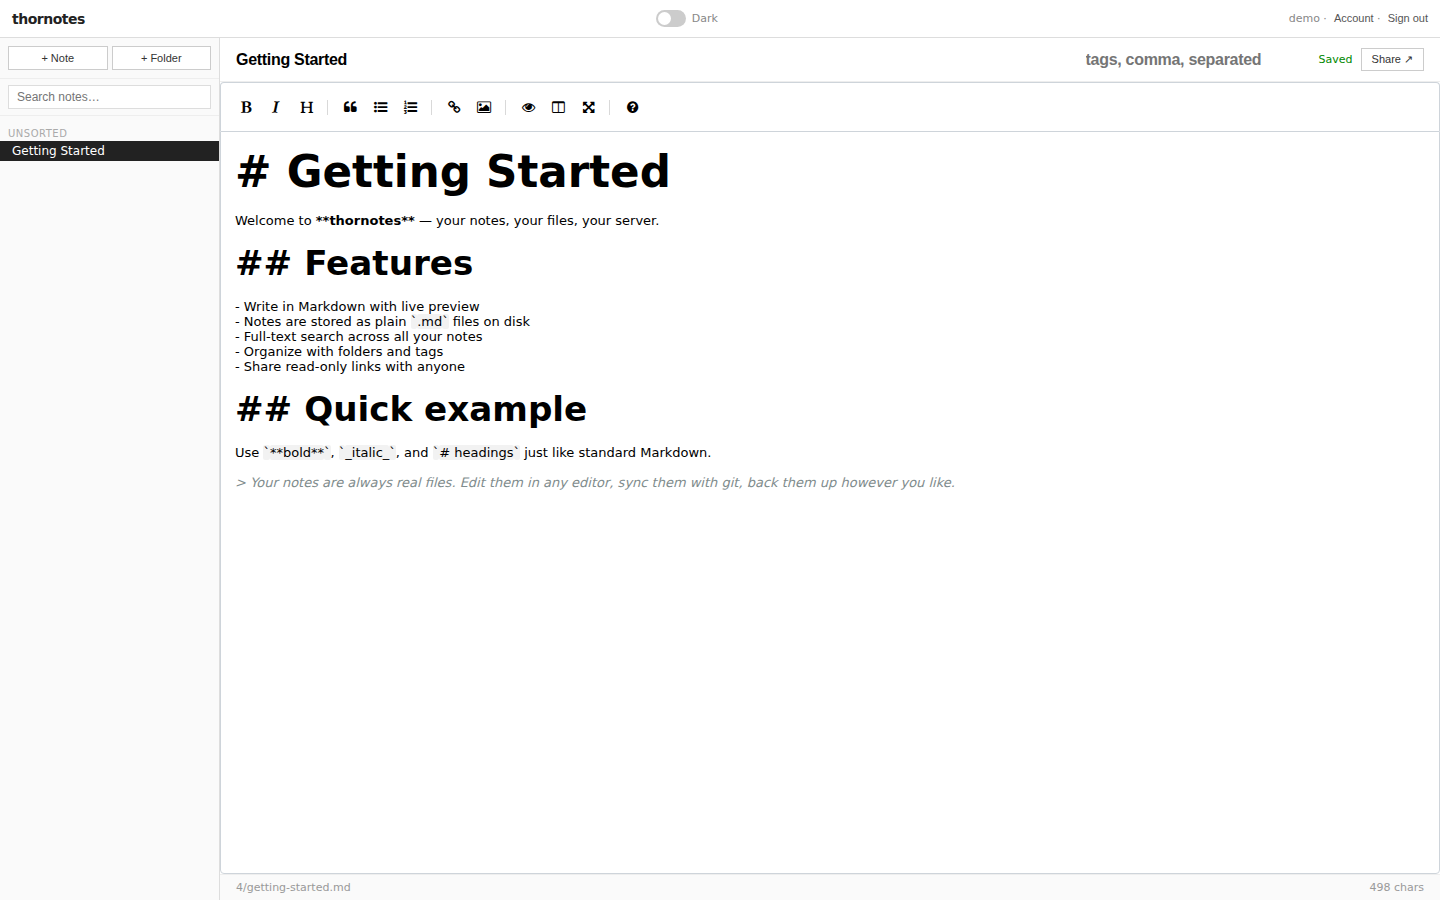
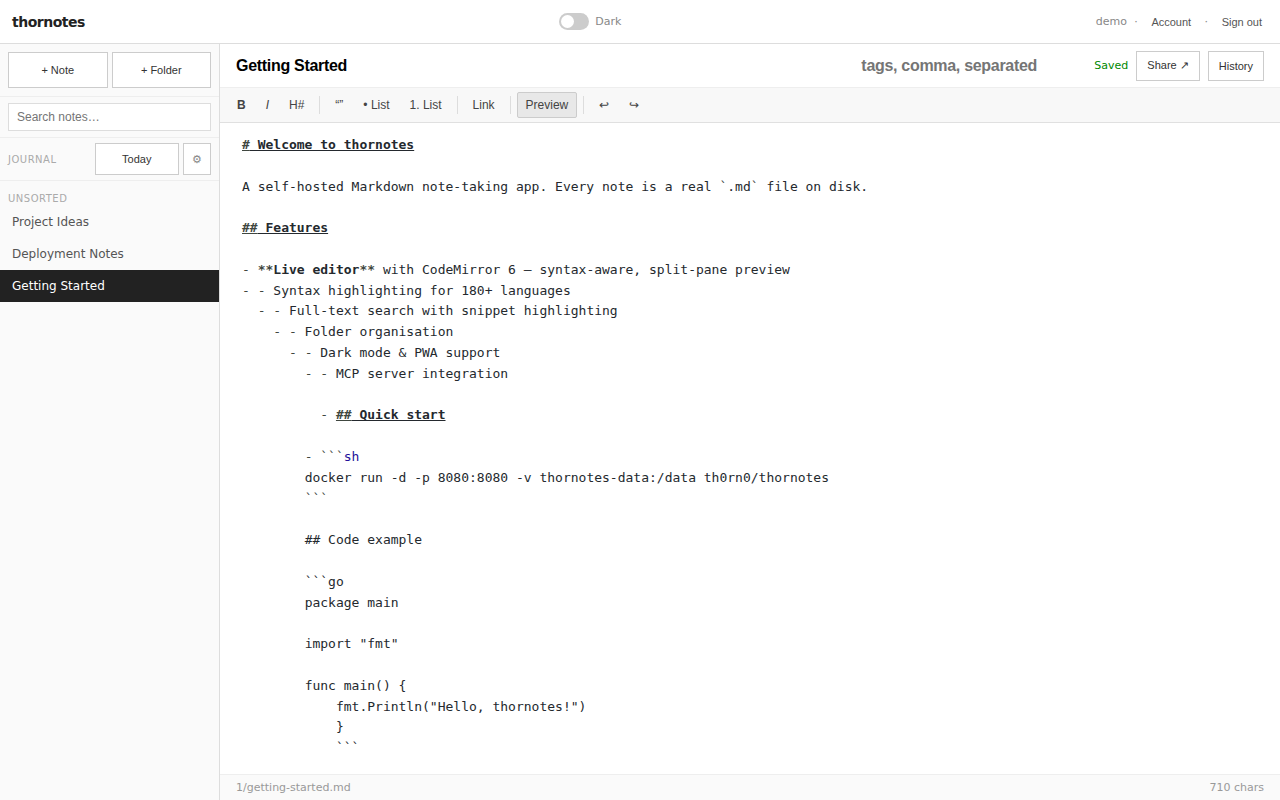
fix: AuthRateLimiter goroutine leak → handler tests timeout (v0.19.2.0)
cleanupLoop used for range ticker.C which blocks forever — stopping a
ticker does not close its channel. With 70+ MCP tests each creating a
new AuthRateLimiter, thousands of leaked goroutines accumulated and
degraded the scheduler enough to hit the 10-minute CI test timeout.

- Add Stop() / stopCh to AuthRateLimiter; rewrite cleanupLoop with select
- Wire t.Cleanup(rateLimiter.Stop) into all test helpers
- Wire rateLimiter.Stop() into main graceful shutdown
- Bump version and changelog (v0.19.2.0)
- Update README: EasyMDE → CodeMirror 6, refresh screenshots
- Bump service worker cache to thornotes-v0.19.2.0

diff --git a/web/static/sw.js b/web/static/sw.js
@@ -1,7 +1,7 @@
 /* thornotes — service worker */
 'use strict';
 
-const CACHE = 'thornotes-v0.19.0.0';
+const CACHE = 'thornotes-v0.19.2.0';
 
 const STATIC_ASSETS = [
   '/',

diff --git a/internal/security/ratelimit_test.go b/internal/security/ratelimit_test.go
@@ -12,6 +12,7 @@ import (
 
 func TestRateLimit_AllowsUnderLimit(t *testing.T) {
 	rl := NewAuthRateLimiter(nil)
+	t.Cleanup(rl.Stop)
 	handler := rl.Middleware(http.HandlerFunc(func(w http.ResponseWriter, r *http.Request) {
 		w.WriteHeader(http.StatusOK)
 	}))
@@ -27,6 +28,7 @@ func TestRateLimit_AllowsUnderLimit(t *testing.T) {
 
 func TestRateLimit_BlocksAfterLimit(t *testing.T) {
 	rl := NewAuthRateLimiter(nil)
+	t.Cleanup(rl.Stop)
 	handler := rl.Middleware(http.HandlerFunc(func(w http.ResponseWriter, r *http.Request) {
 		w.WriteHeader(http.StatusOK)
 	}))
@@ -50,6 +52,7 @@ func TestRateLimit_BlocksAfterLimit(t *testing.T) {
 
 func TestRateLimit_DifferentIPsAreIndependent(t *testing.T) {
 	rl := NewAuthRateLimiter(nil)
+	t.Cleanup(rl.Stop)
 	handler := rl.Middleware(http.HandlerFunc(func(w http.ResponseWriter, r *http.Request) {
 		w.WriteHeader(http.StatusOK)
 	}))
@@ -73,6 +76,7 @@ func TestRateLimit_DifferentIPsAreIndependent(t *testing.T) {
 func TestRateLimit_TrustedProxy_ExtractsRealIP(t *testing.T) {
 	_, proxyNet, _ := net.ParseCIDR("10.0.0.0/8")
 	rl := NewAuthRateLimiter(proxyNet)
+	t.Cleanup(rl.Stop)
 	handler := rl.Middleware(http.HandlerFunc(func(w http.ResponseWriter, r *http.Request) {
 		w.WriteHeader(http.StatusOK)
 	}))
@@ -105,6 +109,7 @@ func TestRateLimit_TrustedProxy_ExtractsRealIP(t *testing.T) {
 
 func TestRateLimit_UntrustedProxy_IgnoresXFF(t *testing.T) {
 	rl := NewAuthRateLimiter(nil) // no trusted proxy
+	t.Cleanup(rl.Stop)
 	handler := rl.Middleware(http.HandlerFunc(func(w http.ResponseWriter, r *http.Request) {
 		w.WriteHeader(http.StatusOK)
 	}))
@@ -129,6 +134,7 @@ func TestRateLimit_UntrustedProxy_IgnoresXFF(t *testing.T) {
 
 func TestRateLimit_EvictStale(t *testing.T) {
 	rl := NewAuthRateLimiter(nil)
+	t.Cleanup(rl.Stop)
 
 	// Add an entry via getLimiter.
 	rl.getLimiter("10.1.1.1")
@@ -150,6 +156,7 @@ func TestRateLimit_EvictStale(t *testing.T) {
 
 func TestRateLimit_EvictStale_KeepsRecent(t *testing.T) {
 	rl := NewAuthRateLimiter(nil)
+	t.Cleanup(rl.Stop)
 
 	// Add a fresh entry via getLimiter.
 	rl.getLimiter("10.2.2.2")
@@ -167,6 +174,7 @@ func TestRateLimit_EvictStale_KeepsRecent(t *testing.T) {
 func TestRateLimit_ExtractIP_NoXFF(t *testing.T) {
 	_, proxyNet, _ := net.ParseCIDR("10.0.0.0/8")
 	rl := NewAuthRateLimiter(proxyNet)
+	t.Cleanup(rl.Stop)
 
 	// Trusted proxy configured, but no XFF header — should use RemoteAddr.
 	req := httptest.NewRequest(http.MethodPost, "/", nil)
@@ -180,6 +188,7 @@ func TestRateLimit_ExtractIP_NoXFF(t *testing.T) {
 func TestRateLimit_ExtractIP_AllTrustedChain(t *testing.T) {
 	_, proxyNet, _ := net.ParseCIDR("10.0.0.0/8")
 	rl := NewAuthRateLimiter(proxyNet)
+	t.Cleanup(rl.Stop)
 
 	// XFF chain is all trusted IPs — should fall back to RemoteAddr.
 	req := httptest.NewRequest(http.MethodPost, "/", nil)
@@ -193,6 +202,7 @@ func TestRateLimit_ExtractIP_AllTrustedChain(t *testing.T) {
 func TestRateLimit_ExtractIP_UnparsableRemote(t *testing.T) {
 	_, proxyNet, _ := net.ParseCIDR("10.0.0.0/8")
 	rl := NewAuthRateLimiter(proxyNet)
+	t.Cleanup(rl.Stop)
 
 	// RemoteAddr with no host part → SplitHostPort returns "", so net.ParseIP("") == nil.
 	// Should fall back to the empty string (remoteIP).
@@ -207,6 +217,7 @@ func TestRateLimit_ExtractIP_UnparsableRemote(t *testing.T) {
 func TestRateLimit_ExtractIP_InvalidXFFEntry(t *testing.T) {
 	_, proxyNet, _ := net.ParseCIDR("10.0.0.0/8")
 	rl := NewAuthRateLimiter(proxyNet)
+	t.Cleanup(rl.Stop)
 
 	// XFF header contains an invalid (non-parseable) IP before the real one.
 	// The loop should skip it and continue.
@@ -222,6 +233,7 @@ func TestRateLimit_ExtractIP_InvalidXFFEntry(t *testing.T) {
 func TestRateLimit_ExtractIP_RemoteNotInTrustedRange(t *testing.T) {
 	_, proxyNet, _ := net.ParseCIDR("10.0.0.0/8")
 	rl := NewAuthRateLimiter(proxyNet)
+	t.Cleanup(rl.Stop)
 
 	// RemoteAddr is NOT in the trusted proxy range — XFF must be ignored.
 	req := httptest.NewRequest(http.MethodPost, "/", nil)

diff --git a/internal/security/ratelimit.go b/internal/security/ratelimit.go
@@ -27,15 +27,22 @@ type AuthRateLimiter struct {
 	mu           sync.Mutex
 	limiters     map[string]*ipLimiter
 	trustedProxy *net.IPNet
+	stopCh       chan struct{}
 }
 
 func NewAuthRateLimiter(trustedProxy *net.IPNet) *AuthRateLimiter {
 	rl := &AuthRateLimiter{
 		limiters:     make(map[string]*ipLimiter),
 		trustedProxy: trustedProxy,
+		stopCh:       make(chan struct{}),
 	}
 	go rl.cleanupLoop()
 	return rl
+}
+
+// Stop terminates the background cleanup goroutine.
+func (rl *AuthRateLimiter) Stop() {
+	close(rl.stopCh)
 }
 
 // Middleware wraps an HTTP handler with per-IP rate limiting.
@@ -137,7 +144,12 @@ func (rl *AuthRateLimiter) evictStale(cutoff time.Time) {
 func (rl *AuthRateLimiter) cleanupLoop() {
 	ticker := time.NewTicker(rateLimitCleanup)
 	defer ticker.Stop()
-	for range ticker.C {
-		rl.evictStale(time.Now().Add(-rateLimitCleanup))
+	for {
+		select {
+		case <-rl.stopCh:
+			return
+		case <-ticker.C:
+			rl.evictStale(time.Now().Add(-rateLimitCleanup))
+		}
 	}
 }

diff --git a/internal/handler/integration_test.go b/internal/handler/integration_test.go
@@ -55,6 +55,7 @@ func newTestClient(t *testing.T) *testClient {
 	authSvc := auth.NewService(userRepo, sessionRepo, true)
 	notesSvc := notes.NewService(noteRepo, folderRepo, searchRepo, sqlite.NewJournalRepo(pool.ReadDB, pool.WriteDB), fs)
 	rateLimiter := security.NewAuthRateLimiter(nil)
+	t.Cleanup(rateLimiter.Stop)
 
 	tmpl, err := template.ParseFS(thornotes.TemplatesFS, "web/templates/*.html")
 	require.NoError(t, err)
@@ -1450,6 +1451,7 @@ func newTestClientGit(t *testing.T) *testClient {
 	authSvc := auth.NewService(userRepo, sessionRepo, true)
 	notesSvc := notes.NewService(noteRepo, folderRepo, searchRepo, sqlite.NewJournalRepo(pool.ReadDB, pool.WriteDB), fs)
 	rateLimiter := security.NewAuthRateLimiter(nil)
+	t.Cleanup(rateLimiter.Stop)
 
 	tmpl, err := template.ParseFS(thornotes.TemplatesFS, "web/templates/*.html")
 	require.NoError(t, err)

diff --git a/internal/router/router_test.go b/internal/router/router_test.go
@@ -43,6 +43,7 @@ func buildHandler(t *testing.T) http.Handler {
 	authSvc := auth.NewService(userRepo, sessionRepo, true)
 	notesSvc := notes.NewService(noteRepo, folderRepo, searchRepo, sqlite.NewJournalRepo(pool.ReadDB, pool.WriteDB), fs)
 	rateLimiter := security.NewAuthRateLimiter(nil)
+	t.Cleanup(rateLimiter.Stop)
 
 	tmpl, err := template.ParseFS(thornotes.TemplatesFS, "web/templates/*.html")
 	require.NoError(t, err)

diff --git a/cmd/thornotes/main.go b/cmd/thornotes/main.go
@@ -187,6 +187,7 @@ func main() {
 	<-stop
 	log.Info().Msg("shutting down...")
 	watchCancel()
+	rateLimiter.Stop()
 
 	ctx, cancel := context.WithTimeout(context.Background(), 30*time.Second)
 	defer cancel()

diff --git a/CHANGELOG.md b/CHANGELOG.md
@@ -2,6 +2,14 @@
 
 All notable changes to thornotes are documented here.
 
+## [0.19.2.0] - 2026-04-02
+
+### Fixed
+- **AuthRateLimiter goroutine leak** — `cleanupLoop` used `for range ticker.C` which blocks forever (stopping a ticker does not close its channel). Every test client created a new `AuthRateLimiter`, leaking one goroutine per test. With 70+ MCP handler tests this accumulated thousands of idle goroutines, degrading the Go scheduler enough to push the handler test suite past the 10-minute timeout in CI. Added a `Stop()` method that closes a `stopCh` channel and rewrote `cleanupLoop` to `select` on both `ticker.C` and `stopCh`. Wired `t.Cleanup(rateLimiter.Stop)` into all test helpers and `rateLimiter.Stop()` into the main graceful shutdown.
+
+### Changed
+- **README** — updated editor description from EasyMDE to CodeMirror 6; refreshed screenshots.
+
 ## [0.19.1.0] - 2026-04-02
 
 ### Fixed

diff --git a/README.md b/README.md
@@ -10,7 +10,7 @@ A self-hosted Markdown note-taking app with file-as-canonical storage. Every not
 
 ## Features
 
-- Write notes in Markdown with a live preview editor (EasyMDE)
+- Write notes in Markdown with a split-pane editor (CodeMirror 6 — syntax-aware, live preview)
 - Syntax highlighting for fenced code blocks — ` ```go `, ` ```yaml `, ` ```json `, and [180+ languages](https://highlightjs.org/)
 - Folder tree with lazy-loaded notes
 - Full-text search with snippet highlighting
